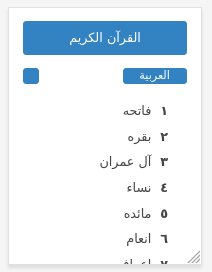
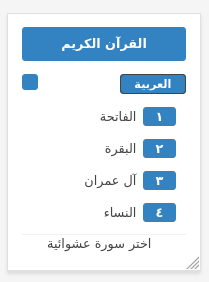
Update UI
Add new screenshots, too

diff --git a/src/js/components/SurahStream/Stream.tsx b/src/js/components/SurahStream/Stream.tsx
@@ -33,7 +33,7 @@ export function Stream({
         {stream.map((ayah: Ayah) => {
           return (
             <li key={ayah.id} className="ayah fade mb-1">
-              <span className="flex h-8 items-center color-primary">
+              <span className="flex h-6 items-center color-primary text-sm">
                 <span className="color-primary font-extrabold">
                   {t(locale, "surah")} {formatNumber(locale, surah.id)}
                   {t(locale, "comma")} {t(locale, "ayah")}{" "}
@@ -41,7 +41,7 @@ export function Stream({
                   {formatNumber(locale, surah.ayat.length)}
                 </span>
               </span>
-              <p className="m-0 mt-1 color-accent text-base">{ayah.body}</p>
+              <p className="m-0 mt-1 color-accent">{ayah.body}</p>
             </li>
           );
         })}

diff --git a/README.md b/README.md
@@ -10,7 +10,11 @@ The project is still in the early stages of development.
 
 **SurahIndex.tsx**
 
-![img](/share/al-quran.reflectslight.io/screenshots/240x320_SurahIndex.png)
+![SurahIndex](/share/al-quran.reflectslight.io/screenshots/240x320_SurahIndex.png)
+
+**StreamStream.tsx**
+
+![SurahStream](/share/al-quran.reflectslight.io/screenshots/240x320_SurahStream.png)
 
 ## Development
 
